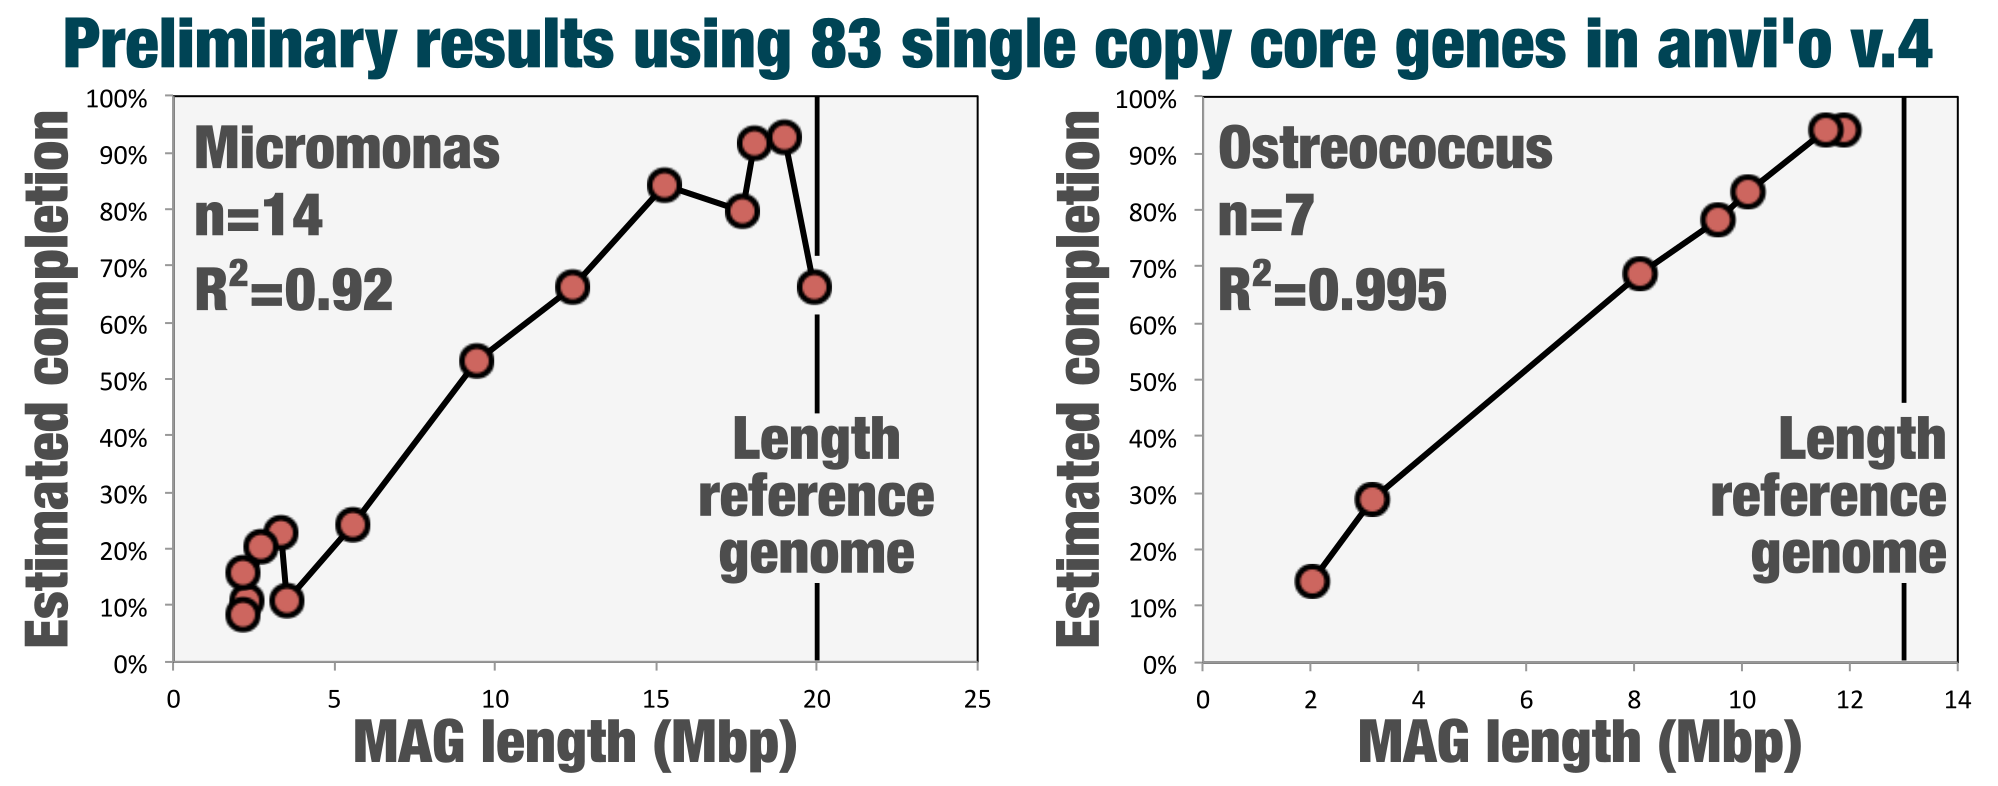
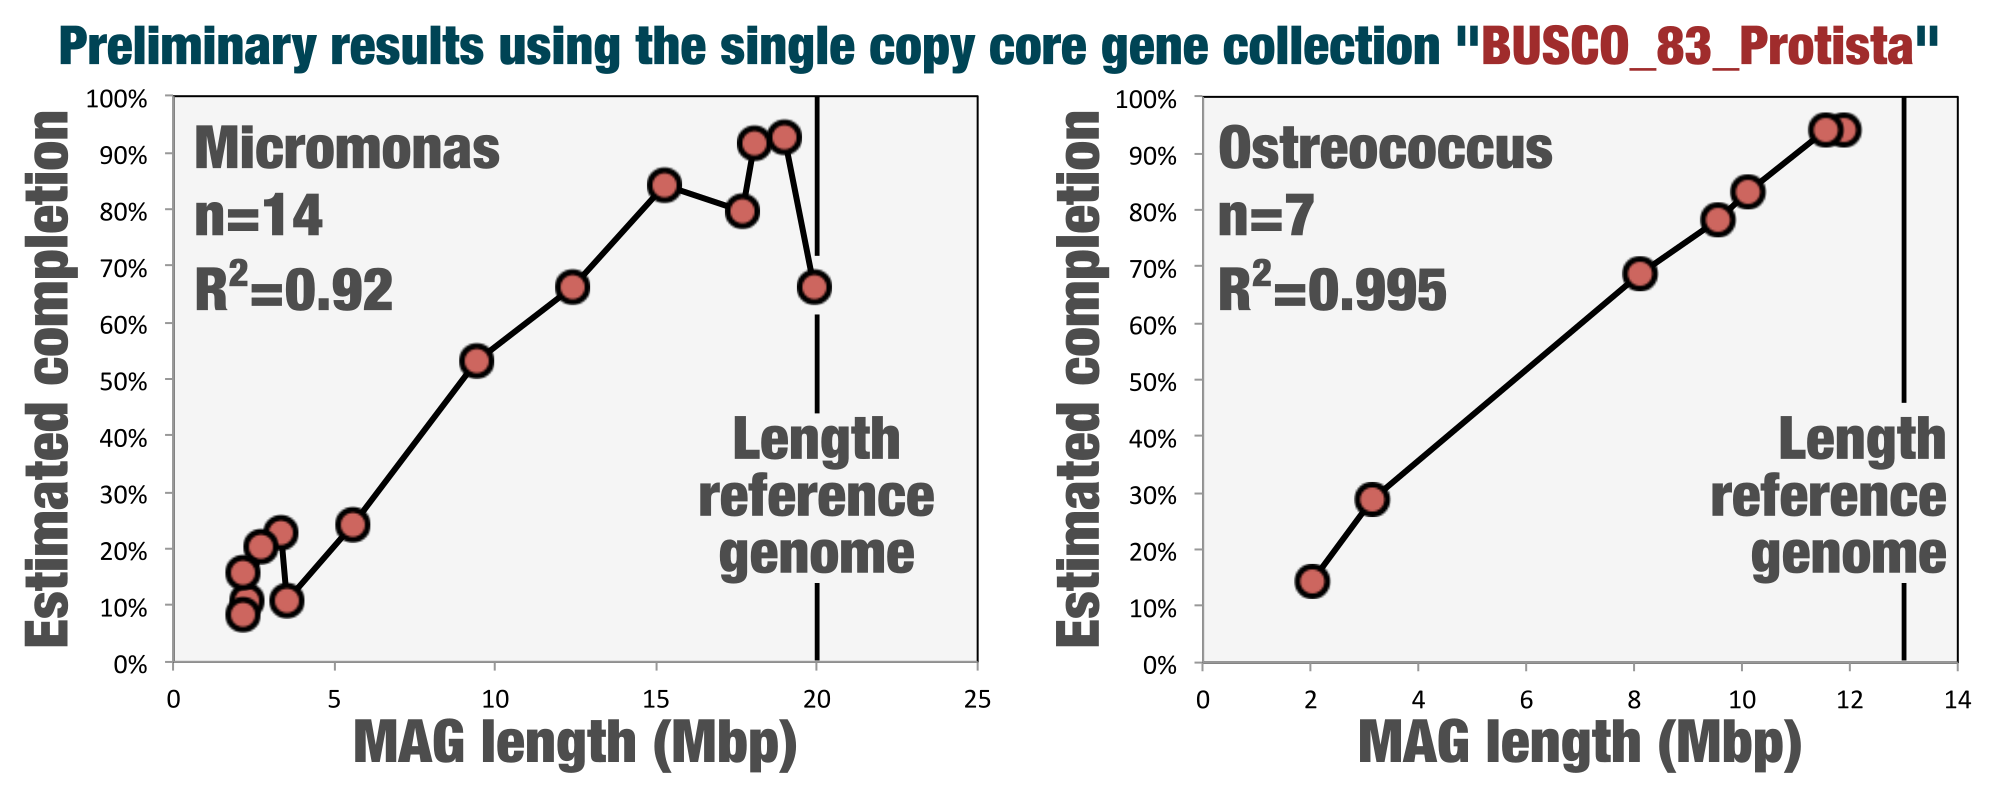
c

Changed region(s): [[0.031, 0.0, 0.993, 0.1221]]

diff --git a/_posts/anvio/2018-05-05-eukaryotic-single-copy-core-genes.md b/_posts/anvio/2018-05-05-eukaryotic-single-copy-core-genes.md
@@ -17,7 +17,7 @@ Some parts of this article may require anvi'o `v5` or later. You can learn which
 
 {% include _toc.html %}
 
-This post describes an anvi'o HMM collection of 83 single-copy core genes I curated from [BUSCO](http://busco.ezlab.org). This collection can be used to __assess the completion and redundancy of eukaryotic genome bins__ (stay tuned, viruses, you are not forgotten, and your time will come soon). 
+This post describes a collection of 83 single-copy core genes I curated from [BUSCO](http://busco.ezlab.org), so anvi'o can __identify eukaryotic genome bins__ in metagenomic binning efforts (stay tuned, viruses, you are not forgotten, and your time will come soon), and __estimate their level of completion__.
 
 ## A brief background: 
 
@@ -150,7 +150,7 @@ __There is a strong correlation between length and completion estimates (R-scare
 
 The correlation between the genomic length and completion estimates for _Micromonas_ and _Ostreococcus_ MAGs characterized from the surface ocean was quite promising:
 
-[![correlation]({{images}}/correlation-2.png)]({{images}}/correlation-2.png){:.center-img} 
+[![correlation]({{images}}/correlation.png)]({{images}}/correlation.png){:.center-img} 
 
 Overall, __average redundancy estimates for the 45 eukaryotic MAGs went from ~20% with the bacterial single-copy core gene collection to 1.4% with `BUSCO_83_Protista`__. This suggests the eukaryotic MAGs represent individual population genomes with no substantial amounts of contamination. As a result, it seems key information computed by anvi'o (especially differential coverage and sequence composition) is also effective for the characterization of (sometimes near-complete) eukaryotic genomes. Good.
 
